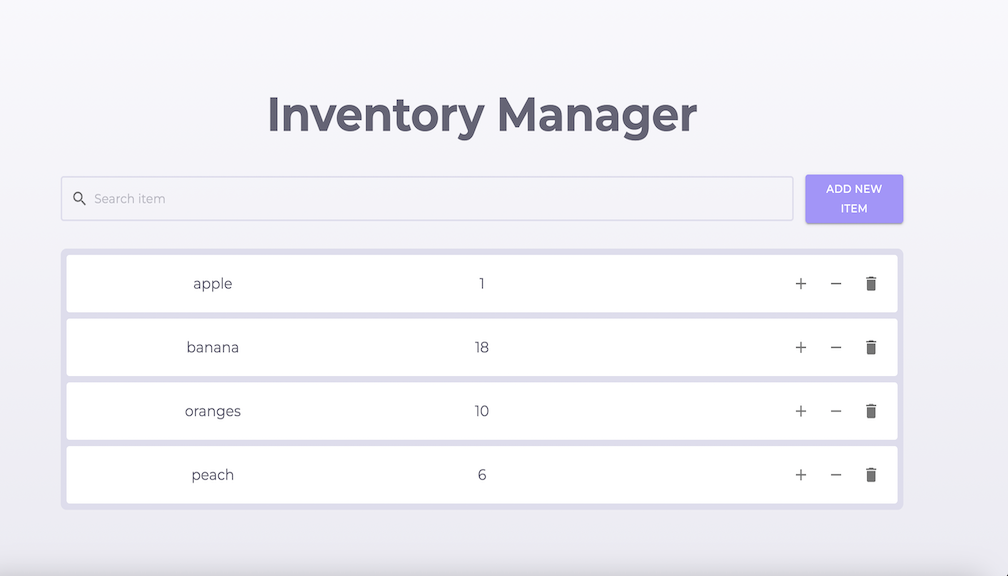
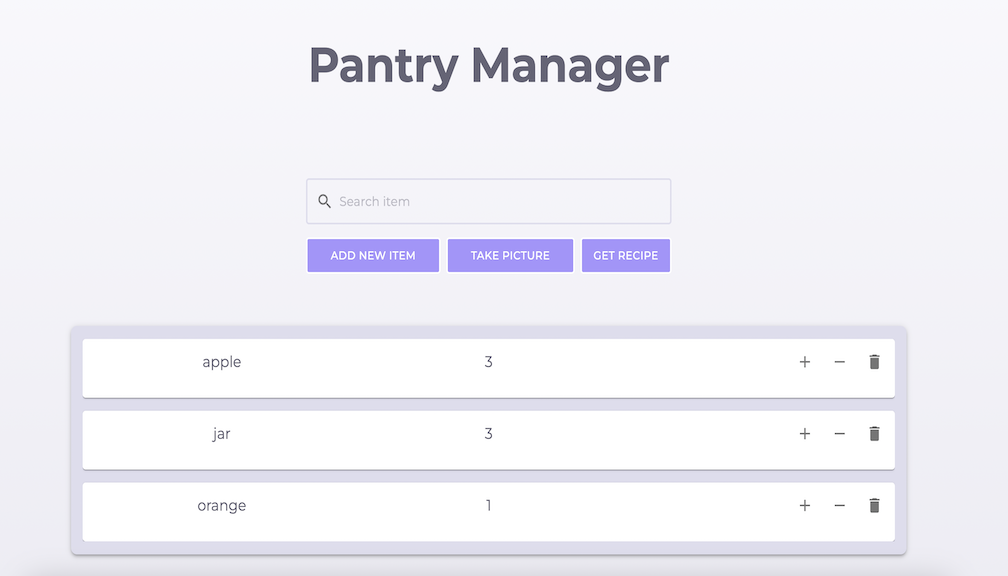
changes to projects

diff --git a/index.html b/index.html
@@ -153,13 +153,13 @@
 						<div class="row">
                             <article class="col-6 col-12-xsmall work-item">
                                 <a href="images/inventory.png" class="image fit thumb"><img src="images/inventory.png" style="border: black" alt="" /></a>
-                                <h3>Inventory Manager | JS, CSS
+                                <h3>Pantry Manager | JS, CSS
                                     <a href="https://inventory-tracker-six.vercel.app/" target = "_blank">
                                         <i class="fas fa-arrow-up-right-from-square"></i>
                                     </a>
                                 </h3>
-                                <h6> React, Material UI, Firebase </h6>
-                                <p> Designed for businesses to add, delete, and manage inventory items seamlessly.</p>
+                                <h6> React, Material UI, Firebase, Open AI </h6>
+                                <p> Offers an intuitive user interface to seamlessly add, delete, and manage inventory items, and includes innovative features such as taking pictures of items and generating recipes.</p>
                             </article>
 							<article class="col-6 col-12-xsmall work-item">
 								<a href="images/stock.png" class="image fit thumb"><img src="images/stock.png" style="border: black" alt="" /></a>
